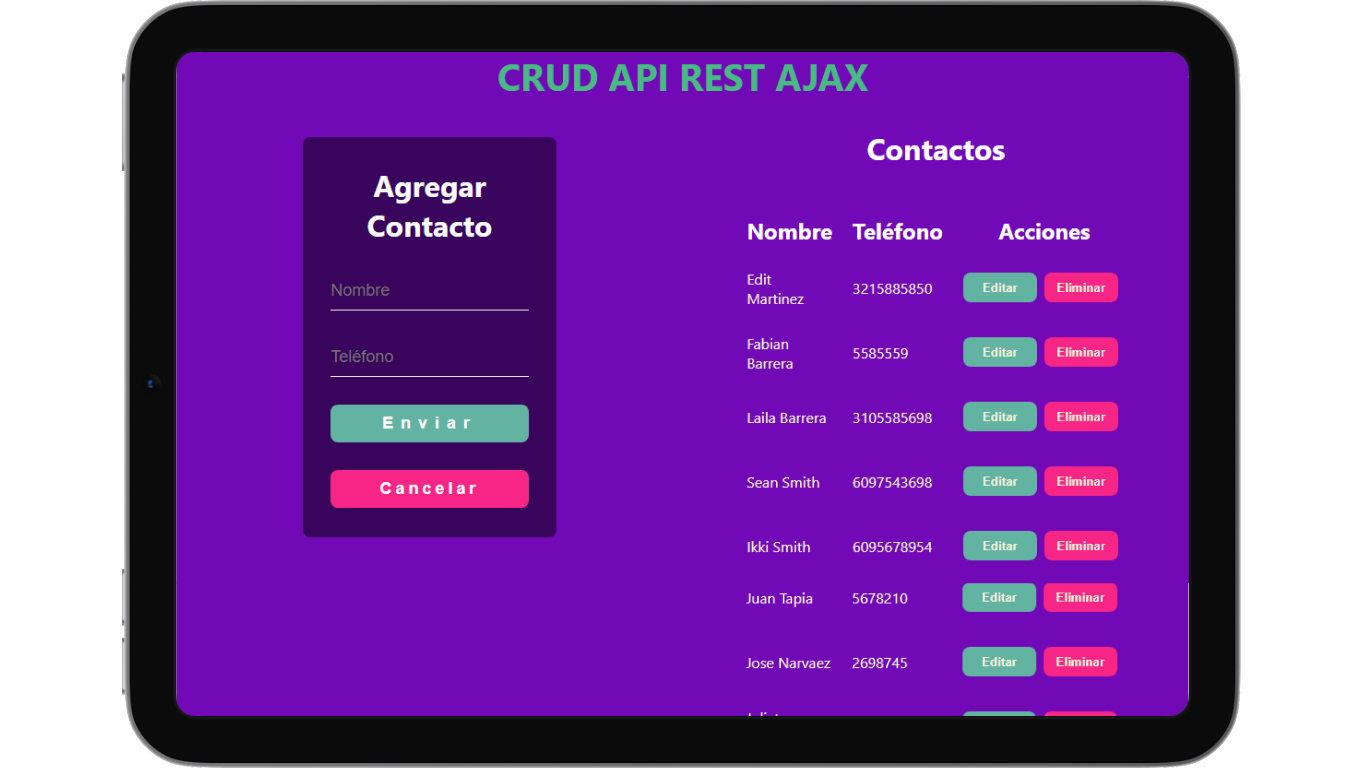
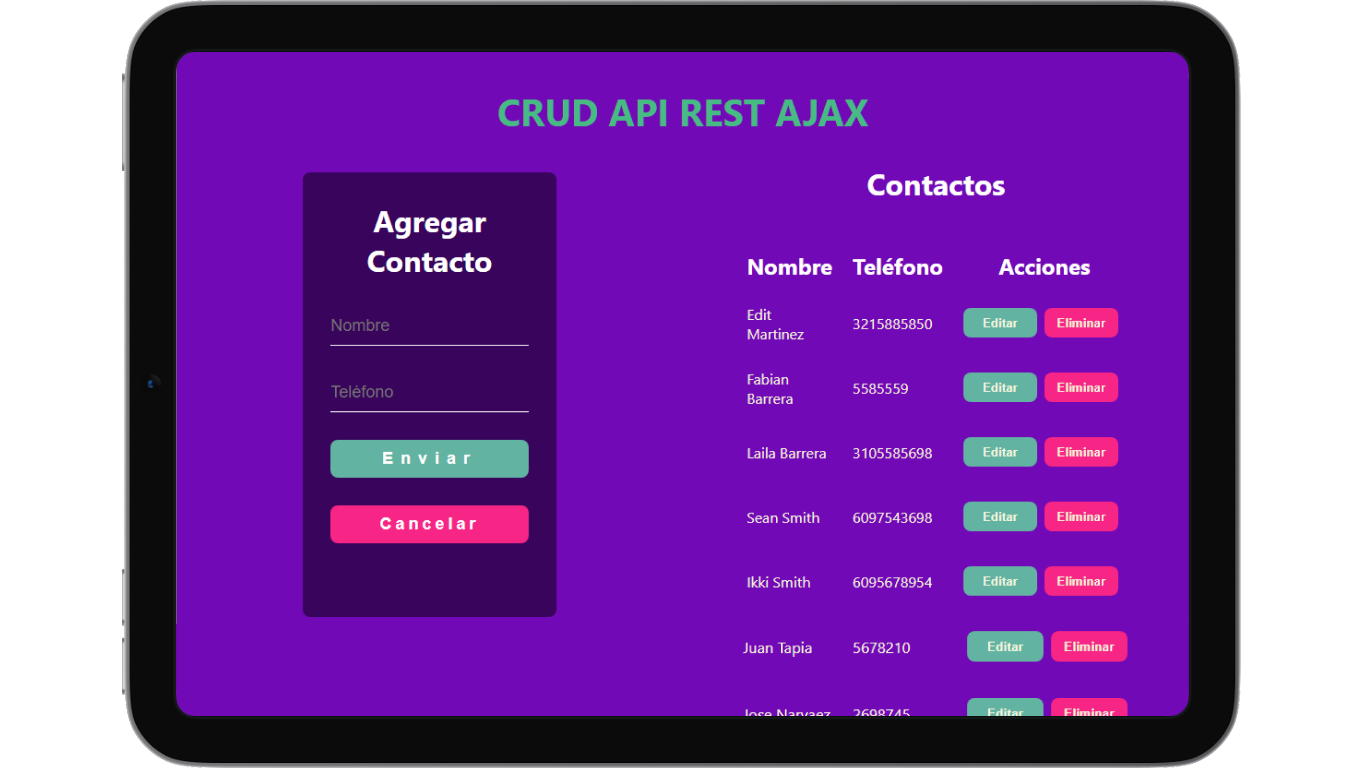
Updated Vs Tablet and Desktop

diff --git a/crud_ajax.html b/crud_ajax.html
@@ -162,7 +162,7 @@
  
              .container{
                  width: 50%;
-                 height: 90%;
+                 height: 100%;
              }
              
              .container h2, .container__table h2{
